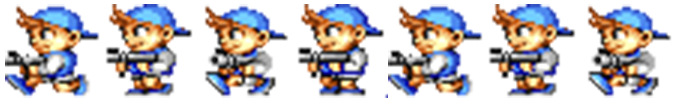
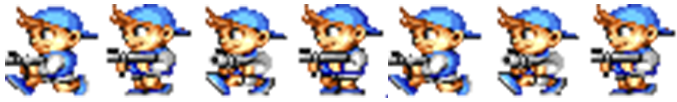
Ainda falta alguns ajustes na animação inicial

Changed region(s): [[0.7134, 0.0294, 1.0, 0.9412]]

diff --git a/game.css b/game.css
@@ -187,11 +187,11 @@ body {
 @keyframes walk-player {
     0% {
         background-position: 0px;
-        transform: translateX(0px);
+        transform: translateX(100%);
         animation-play-state: running;
         opacity: 0;
     }
-    5% {
+    1% {
         background-position: 0px;
         opacity: 1;
     }
@@ -213,11 +213,11 @@ body {
     position: absolute;
     top: 400px;
     left: 650px;
-    background: url(/images/animation/player_animation_gun.png);
-    width: calc(196px/2);
+    background: url(/images/animation/player_animation_shoot.png);
+    width: calc(677px / 7);
     height: 102px;
     opacity: 0;
-    animation: shoot-player 1s steps(2) 5.52s 1 normal none;
+    animation: shoot-player 2s steps(7) 5.52s 1 normal both;
     /* animation: name duration timing-function delay iteration-count direction fill-mode; */
 }
 
@@ -225,36 +225,52 @@ body {
     0% {
         opacity: 0;
         background-position: 0px;
+        animation-play-state: running;
     }
-    2%{
-        opacity: 1;
+    1%{
         background-position: 0px;
+        opacity: 1;
+    }
+    99% {
+        opacity: 1;
     }
     100% {
-        background-position: 196px;
+        background-position: 677px;
+        opacity: 0;
+        animation-play-state: paused;
     }
 }
 
 /*ARPÃO A SAIR DO PLAYER*/
-/* #gunShoot {
+#gunShoot {
     position: absolute;
-    top: 250px;
-    left: 683px;
+    top: 210px;
+    left: 680px;
     background: url(/images/animation/gun_2.png);
-    width: calc(113px/6);
+    width: calc(104px/6);
     height: 202px;
-    animation: shoot-gun 2s steps(6) 0s 1 normal both;
-    /* animation: name duration timing-function delay iteration-count direction fill-mode; 
-}*/
+    opacity: 0;
+    animation: shoot-gun 1s steps(6) 6.55s 1 normal both;
+    /* animation: name duration timing-function delay iteration-count direction fill-mode; */
+}
 
-/*@keyframes shoot-gun {
+@keyframes shoot-gun {
     0% {
-        
+        background-position: 0px;
+    }
+    1% {
+        opacity: 1;
+        background-position: 0px;
+    }
+    99% {
+        opacity: 1;
+        background-position: 103px;
     }
     100% {
-        
+        opacity: 0;
+        background-position: 104px;
     }
-} */
+}
 
 /* ANIMAÇÃO DO SPRITE DO JOGADOR A SAIR */
 
@@ -266,7 +282,7 @@ body {
     background: url(/images/animation/player_animation_2.png);
     width: calc(677PX / 7);
     height: 102px;
-    animation: leave-player 2s steps(7) 10s 1 normal both;
+    animation: leave-player 2s steps(7) 8.48s 1 normal both;
     
 }
 
@@ -276,13 +292,16 @@ body {
         transform: translateX(-430px);
         animation-play-state: running;
     }
+    1% {
+        opacity: 1;
+    }
     95% {
-        transform: translateX(0px);
+        /* transform: translateX(0px); */
         opacity: 1;
     }
     100% {
         background-position: 677px;
-        transform: translateX(0px);
+        transform: translateX(100%);
         opacity: 0;
         animation-play-state: paused;
     }
